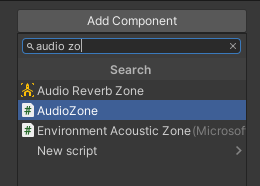
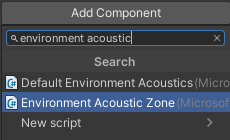
edits-071224-1738

diff --git a/mesh/develop/enhance-your-environment/spatial-audio-customization/audio-zone-properties.md b/mesh/develop/enhance-your-environment/spatial-audio-customization/audio-zone-properties.md
@@ -4,7 +4,7 @@ description: Learn about the properties that help you customize a Mesh Audio Zon
 ms.service: mesh
 author: vtieto
 ms.author: vinnietieto
-ms.date: 7/10/2024
+ms.date: 7/12/2024
 ms.topic: conceptual
 keywords: Microsoft Mesh, Mesh, audio, sound, audio zones, spatial audio, spatialization, voices, 3D audio, surround sound, acoustics
 ---
@@ -15,32 +15,48 @@ When you [create an Audio Zone in your environment](./create-zones-and-environme
 
 ![______](../../../media/enhance-your-environment/audio-zones/057-audio-zone-properties.png)
 
-**Trigger Collider**: This property contains the GameObject that has an attached Trigger Collider that defines the boundary of the Audio Zone. In most cases, this will be the GameObject the Audio Zone component is attached to. You can set this by dragging the GameObject from the **Hierarchy** and dropping it onto the **Trigger Collider** property, or clicking the round button in the property and then selected a GameObject in the **Select Collider** window.
+### Trigger Collider 
 
-**State**: Leave this set to **Uninitialized**.
+This property contains the GameObject that has an attached Trigger Collider that defines the boundary of the Audio Zone. In most cases, this will be the GameObject the Audio Zone component is attached to. You can set this by dragging the GameObject from the **Hierarchy** and dropping it onto the **Trigger Collider** property, or clicking the round button in the property and then selected a GameObject in the **Select Collider** window.
 
-**Zone type**: Leave this set to **Normal**.
+### State
 
-**Priority**: You can assign a priority value to the Audio Zone which can be useful if there are several Audio Zones in the scene. For more details, hover the cursory over this property and read the informational popup.
+Leave this set to **Uninitialized**.
+
+### Zone type 
+
+Leave this set to **Normal**.
+
+### Priority 
+
+You can assign a priority value to the Audio Zone which can be useful if there are several Audio Zones in the scene. For more details, hover the cursory over this property and read the informational popup.
 
 ![______](../../../media/enhance-your-environment/audio-zones/058-priority.png)
 
-**Applicability**:
+### Applicability
 
 - **When both inside**: the Zone's rules apply only if the attendee *and* the source of the audio are both inside the Audio Zone.
 - **When Audio Source inside**: the Zone's rules apply if the source of the audio is inside the Audio Zone. (this is how a stage works, for example. When the presenter is on the stage, the stage's Audio Zone settings go into effect.) 
 
-**Voices**: Select the Voice Settings Collection that contains the Voice Setting you want for this Audio Zone. To do so, in the **Project** window, navigate to the Voice Setting you want, and then drag it to the **Voices** field in the **AudioZone** component.
+### Voices
+
+Select the Voice Settings Collection that contains the Voice Setting you want for this Audio Zone. To do so, in the **Project** window, navigate to the Voice Setting you want, and then drag it to the **Voices** field in the **AudioZone** component. 
 
 ![______](../../../media/enhance-your-environment/audio-zones/066-voice-setting.png)
 
-**Default Voice Selection**: the drop-down for this property contains a list of various *uses* you may be interested in. If, for example, you want the Audio Zone to use the settings for the *Natural* use, select *Natural* here and the Audio Zone will look for and use a Voice within the Collection you chose that has *Natural* set for its use. If no Voices with that use can be found in the Collection and there are nested Audio Zones, the Audio Zone will look in the Collections for other Audio Zones (going from highest Priority to lowest Priority) for a Voice with that use. If no Audio Zones have such a Voice, the Audio Zone looks to the Environment for such a Voice. If it still can't be found, the default settings for all environments are used.
+**Note**: This is optional. You can use the Voice Setting Collection assigned to the environment or to other Audio Zones or Acoustic Zones that overlap with this Audio Zone. In either case, leave this property set to "None*.
 
-The standard default voice is **Normal**. However, if you want everyone inside the Zone to be heard easily, then **Low Attenuation** might be a better option.
+### Default Voice Selection
+
+The drop-down for this property contains a list of various *uses* you may be interested in. If, for example, you want the Audio Zone to use the settings for the *Natural* use, select *Natural* here and the Audio Zone will look for and use a Voice within the Collection you chose that has *Natural* set for its use. If no Voices with that use can be found in the Collection and there are nested Audio Zones, the Audio Zone will look in the Collections for other Audio Zones (going from highest Priority to lowest Priority) for a Voice with that use. If no Audio Zones have such a Voice, the Audio Zone looks to the Environment for such a Voice. If it still can't be found, the default settings for all environments are used.
+
+The standard default voice is **Natural**. However, if you want everyone inside the Zone to be heard easily, then **Low Attenuation** might be a better option.
 
 ![______](../../../media/enhance-your-environment/audio-zones/059-low-atten.png)
 
-**Muffle Voices Outside**: Allows attendees inside the Audio Zone to hear voices outside the Zone and applies settings that make those voices sound muffled. The "Muffled" Voice Setting uses three filters.
+### Muffle Voices Outside 
+
+Allows attendees inside the Audio Zone to hear voices outside the Zone and applies settings that make those voices sound muffled. The "Muffled" Voice Setting uses three filters.
 
 ![______](../../../media/enhance-your-environment/audio-zones/060-muffled.png)
 
@@ -48,7 +64,9 @@ Much of the "muffled" effect from this voice is due to the strong influence of t
 
  ![______](../../../media/enhance-your-environment/audio-zones/061-muffled-low-pass-filter.png)
 
-**Can Audio Exit** and **Can Audio Enter**: these properties are useful for controlling privacy. Let's say this current Audio Zone is for Room #1, and Room #2 next To it has an Audio Zone with its "Muffle Voices Outside" property selected. 
+### Can Audio Exit** and **Can Audio Enter 
+
+These properties are useful for controlling privacy. Let's say this current Audio Zone is for Room #1, and Room #2 next To it has an Audio Zone with its "Muffle Voices Outside" property selected. 
 
 **To allow sounds from Room #1 to be heard in Room #2 (or any area outside the room)**:
 Select **Can Audio Exit**. 
@@ -62,13 +80,21 @@ Select **Can Audio enter**.
 **To prevent sounds from outside Room #1 from being heard inside the room**:
 Make sure **Can Audio Enter** is unselected.
 
-**Glow Sound at Border**: This works best when you have some sort of visual representation for the border of the Audio Zone. When this property is selected, a sound triggers when an attendee gets close to the border. For example, you could create an Audio Zone that has an electric fence as its border, and then when an attendee approaches the fence, they hear a crackling electrical sound.
+### Glow Sound at Border 
 
-**Attenuate Voices at Border**: As an attendee approaches the border of the Audio Zone, overall volume of voices is lowered.
+This works best when you have some sort of visual representation for the border of the Audio Zone. When this property is selected, a sound triggers when an attendee gets close to the border. For example, you could create an Audio Zone that has an electric fence as its border, and then when an attendee approaches the fence, they hear a crackling electrical sound.
 
-**Walla Murmur**: This is another property that's useful when you want a certain level of privacy. Let's say that for this room/Audio Zone, you have **Can Audio Exit** deselected, meaning you don't want attendees outside the room to hear what's being said inside the room. However, in this instance, you *do* want attendees outside the room to detect that attendees are inside the room and talking. With **Walla Murmur** selected, when attendees inside the room talk, attendees outside the room will hear what *sounds* like conversation coming from the room but is actually just a sound effect that mimics talking and doesn't represent the actual conversation.
+### Attenuate Voices at Border 
+
+As an attendee approaches the border of the Audio Zone, overall volume of voices is lowered.
+
+### Walla Murmur 
+
+This is another property that's useful when you want a certain level of privacy. Let's say that for this room/Audio Zone, you have **Can Audio Exit** deselected, meaning you don't want attendees outside the room to hear what's being said inside the room. However, in this instance, you *do* want attendees outside the room to detect that attendees are inside the room and talking. With **Walla Murmur** selected, when attendees inside the room talk, attendees outside the room will hear what *sounds* like conversation coming from the room but is actually just a sound effect that mimics talking and doesn't represent the actual conversation.
 
 **Tip**: **Glow Sound at Border**, **Attenuate Voices at Border**, and **Walla Murmur** are designed to work together. Imagine this scenario: you're in an open space, with attendees talking around you, and you walk towards Room #1 which has an Audio Zone with the three above-mentioned features turned on. As you approach the room, you can hear that attendees inside the room are talking (*Walla Murmur*). The volume levels of the voices around you fade to nothing (*Attenuate Voices at Border*). At the same time, you start to hear a sound that steadily increases in volume as you approach the border of the room (*Glow Sound at Border*). As you walk into the room, the glow sound gets quieter and the volume of the voices inside the room increases. The result is a smooth transition from the voices you were hearing outside the room to the voices inside it.
+
+### Toasts
 
 **Entry toast title:**  
 **Entry toast body:**  

diff --git a/mesh/develop/enhance-your-environment/spatial-audio-customization/create-zones-and-environment-audio.md b/mesh/develop/enhance-your-environment/spatial-audio-customization/create-zones-and-environment-audio.md
@@ -4,7 +4,7 @@ description: Learn how to add custom spatial audio zones or change the default a
 ms.service: mesh
 author: vtieto
 ms.author: vinnietieto
-ms.date: 7/10/2024
+ms.date: 7/12/2024
 ms.topic: conceptual
 keywords: Microsoft Mesh, Mesh, audio, sound, audio zones, spatial audio, spatialization, voices, 3D audio, surround sound, acoustics
 ---
@@ -17,14 +17,23 @@ To create an Audio Zone, you add the *Audio Zone* component to a room or space i
 
 ![______](../../../media/enhance-your-environment/audio-zones/067-audio-zone-component.png)
 
-1. Add an empty GameObject to the scene and select it.
+1. Add an empty GameObject to the scene and then rename it something appropriate. For this example, we'll use the name "Room 1".
+1. Add an empty child GameObject to Room 1 and then rename it "Room 1 Audio Zone".
+
+    **Important**: No two GameObjects with Audio Zones attached can have the same name.
+
 1. In the **Inspector**, click the **Add Component** button and then search for and add the "Audio Zone" component.
 
     ![______](../../../media/enhance-your-environment/audio-zones/032-add-audio-zone-component.png)
 
 1. Click the **Add Component** button again and then add the collider that comes closest to the shape of the Audio Zone you have in mind. For example, for a rectangular room, your best choice is probably the "Box Collider".
-1. If needed, in the **Box Collider** component, click the **Edit Collider** button and then adjust the shape of the Collider.
-1. In the **AudioZone** component, specify the property settings you want.
+1. If needed, in the **Box Collider** component, click the **Edit Collider** button and then adjust the shape of the Collider to conform to the dimensions of the room.
+1. In the **AudioZone** component, click the button in the **Voices** property and then choose a Voice Setting Collection. You can also drag a Voice Setting Collection from the **Project** window and drop it in this field.
+
+    **Note**: Choosing a Voice Setting Collection here is optional. If you want to use the Voice Setting Collection assigned to the environment or to other Audio Zones or Acoustic Zones that overlap with this Audio Zone, you can leave this setting at "None".
+    
+1. Click the [**Default Voice Selection**](./audio-zone-properties.md#default-voice-selection) drop-down and then choose one of the options in the menu.
+1. The **Trigger Collider** property contains the GameObject that has an attached Trigger Collider that defines the boundary of the Audio Zone. In most cases, this will be the GameObject the Audio Zone component is attached to.
 
 [Learn about Audio Zone properties](./audio-zone-properties.md)
 
@@ -32,25 +41,40 @@ To create an Audio Zone, you add the *Audio Zone* component to a room or space i
 
 ### Create an Acoustic Zone
 
-An Acoustic Zone comes in the form of a prefab; you can think of it as a simplied Audio Zone. You get the trigger collider and default Voice Setting and Voice Collection choices, but not the more extensive customization properties found in Audio Zones.
+Like with Audio Zones, you can add a component to a room or space in your environment that you want to have customized spatial audio settings (in this case, the component is called "Environment Acoustic Zone"). However, an Acoustic Zone is simpler than an Audio Zone; with the Environment Acoustic Zone component, you get the trigger collider and Voice Collection options, but no default Voice Setting and none of the additional customization properties.
+
+![______](../../../media/enhance-your-environment/audio-zones/086-env-acoustic-zone.png)
+
+1. Create an environment that will act as a large conference hall.
+1. Add a Cube to the scene and then rename it something appropriate. For this example, we'll rename it "Room 2".
+1. Add an empty child GameObject to Room 2 and then rename it "Room 2 Acoustic Zone".
+1. In the **Inspector**, click the **Add Component** button and then search for and add the "Environment Acoustic Zone" component.
+
+    ![______](../../../media/enhance-your-environment/audio-zones/032-add-audio-zone-component.png)
+
+1. Click the **Add Component** button again and then add the collider that comes closest to the shape of the Acoustic Zone you have in mind. For example, for a rectangular room, your best choice is probably the "Box Collider".
+1. If needed, in the **Box Collider** component, click the **Edit Collider** button and then adjust the shape of the Collider to conform to the dimensions of the room.
+1. In the **Environment Acoustic Zone** component, specify the settings you want. You can choose a default [Voice Collection](./spatial-audio-basic-features.md#voice-settings-collection) that gives the Zone a range of Voice Settings to choose from, depending on changing circumstances.
+
+    **Note**: Choosing a Voice Setting Collection here is optional. If you want to use the Voice Setting Collection assigned to the environment or to other Audio Zones or Acoustic Zones that overlap with this Acoustic Zone, you can leave this setting at "None".
+    
+1. The **Trigger Collider** property contains the GameObject that has an attached Trigger Collider that defines the boundary of the Acoustic Zone. In most cases, this will be the GameObject the Acoustic Zone component is attached to.
+
+### Acoustic Zone prefabs
+
+The Audio Zone package comes with two Acoustic Zone prefabs: *CircularAcousticZone* and *RectangularAcousticZone*. You can simply drag one of these into your scene to create an Acoustic Zone; each one comes with the Environment Acoustic Zone script and a trigger collider already attached. 
 
  ![______](../../../media/enhance-your-environment/audio-zones/030-acoustic-zones.png)
 
-An Acoustic Zone prefab comes with the *Environment Acoustic Zone* script.
-
- ![______](../../../media/enhance-your-environment/audio-zones/031-env-acoustic-zone-script.png)
-
 1. Create an environment that will act as a large conference hall.
-1. Add a Cube to the scene and then rename it "Meeting Room".
-1. Adjust the dimensions of **Meeting Room** to give it a rectangular shape at the scale you want.
-1. Drag the **RectangularAcousticZone** prefab from the **VoiceSettingCollection** folder and then drop it on the **Meeting Room** GameObject in the scene, making it a child to **Meeting Room**.
-
-    ![______](../../../media/enhance-your-environment/audio-zones/063-add-rect-acoustic-zone.png)
-
-1. In the **Inspector**, edit the **Box Collider** for the **RectangularAcousticZone** prefab to have the same size and location as the **Meeting Zone** GameObject.
+1. Add a Cube to the scene and then rename it something appropriate. For this example, we'll rename it "Room 3".
+1. Drag the **CircularAcousticZone** or **RectangularAcousticZone** prefab from the **VoiceSettingCollection** folder and then drop it on the **Room 3** GameObject in the **Hierarchy**, making it a child to **Room 3**.
+1. In the **Inspector**, edit the **Box Collider** for the **RectangularAcousticZone** prefab to have the same size and location as the **Room 3** GameObject.
 1. Follow the instructions in the **Description** for the prefab to choose a Voice Collection in the **Voices** property (we recommend that you drag the Voice Collection from the **Project** window). 
 
     ![______](../../../media/enhance-your-environment/audio-zones/064-prefab-description.png)
+
+    **Note**: Choosing a Voice Setting Collection here is optional. If you want to use the Voice Setting Collection assigned to the environment or to other Audio Zones or Acoustic Zones that overlap with this Acoustic Zone, you can leave this setting at "None".
 
 1. If desired, rename the prefab so its name is more descriptive.
 

diff --git a/mesh/develop/enhance-your-environment/spatial-audio-customization/audio-customization-overview.md b/mesh/develop/enhance-your-environment/spatial-audio-customization/audio-customization-overview.md
@@ -4,7 +4,7 @@ description: Learn about the basics of providing custom spatial audio zones in a
 ms.service: mesh
 author: vtieto
 ms.author: vinnietieto
-ms.date: 7/10/2024
+ms.date: 7/12/2024
 ms.topic: conceptual
 keywords: Microsoft Mesh, Mesh, audio, sound, audio zones, spatial audio, spatialization, voices, 3D audio, surround sound
 ---
@@ -13,7 +13,7 @@ keywords: Microsoft Mesh, Mesh, audio, sound, audio zones, spatial audio, spatia
 
 People meet in Mesh to talk to one another; the voice experience touches every single Mesh Attendee in an event. Mesh achieves an immersive 360-degree "surround sound" experience through the use of *spatial audio*. This applies not only to voices but to any sounds in the event.
 
-In the past, you had limited control over how spatialization works; there was one default audio setting for the whole environment and it wasn't customizable for different event sizes and scenarios. This can be a problem if, for example, your event takes place in a large room and you want the volume of the voices between attendees to fade out more gradually as the attendees get further apart. Another example is an event where there's a large table and attendees at the extreme ends of the table are far enough apart that they can't hear each other. In real life, if you're far away, you can speak louder, but in a Mesh event all voice volumes are *normalized* so this doesn't work. In some cases, there are workarounds (for example, make everyone in the event an *Organizer* so they can push the *megaphone* button to make themselves heard by everyone) but these limitations and workarounds can detract from immersion and presence.
+In the past, you had limited control over how spatialization works; there was one default audio setting for the whole environment and it wasn't customizable for different event sizes and scenarios. This can be a problem for various scenarios. For example, you might have an event in a large room where you want attendees to be able to form small groups and have individual conversations, but you also want to support larger discussions where everyone could hear each other. A single fade-out (or "[attenuation](#attenuation)) couldn't accommodate both. Another example is an event where there's a large table and attendees at the extreme ends of the table are far enough apart that they can't hear each other. In real life, if you're far away, you can speak louder, but in a Mesh event all voice volumes are *normalized* so this doesn't work. In some cases, there are workarounds (for example, make everyone in the event an *Organizer* so they can push the *megaphone* button to make themselves heard by everyone) but these limitations and workarounds can detract from immersion and presence.
 
 With our latest Mesh toolkit update, you have much more control over how sound behaves in your environment; you can now [customize the sound settings for the whole environment](./create-zones-and-environment-audio.md#choose-custom-environment-acoustics). You can also create [*Audio Zones*](./create-zones-and-environment-audio.md#create-an-audio-zone) or [*Acoustic Zones*](./create-zones-and-environment-audio.md#create-an-acoustic-zone). These are individual areas in the environment, such as a meeting room or outdoor patio area, with customized audio settings that override the default Mesh app audio settings for the whole environment. For example, you could have an environment that has five different rooms, with each room serving a different purpose and each one having its own unique Audio Zone.
 
@@ -57,7 +57,9 @@ Since *Audio Zones* give you the most extensive control over sound, our document
 
 In order to fully understand how you can control sound with Audio Zones, it's useful to be familiar with a few audio terms that we use for Mesh spatial audio.
 
-**attenuation**: a decrease in the intensity of certain elements of a sound. For our purposes, that means a lowering of volume, a lessening of reverb, or a lessening of high frequencies (["low pass"](https://en.wikipedia.org/wiki/Low-pass_filter)). The names of the prefabs indicate which elements of the sound they're affecting.
+### attenuation
+
+A decrease in the intensity of certain elements of a sound. For our purposes, that means a lowering of volume, a lessening of reverb, or a lessening of high frequencies (["low pass"](https://en.wikipedia.org/wiki/Low-pass_filter)). The names of the prefabs indicate which elements of the sound they're affecting.
 
 ![______](../../../media/enhance-your-environment/audio-zones/070-attenuation-filters.png)
 
@@ -65,13 +67,21 @@ For example, if you create an Audio Zone and you want the sounds outside of the 
 
 You'll see "low" in the names of a number of sound-related prefabs; for example, "LowAttenuationVolumeFilter" or "LowAttenuationReverbFilter". In normal attenuation, the further away you get from a sound source, the more the element of the sound being attenuated decreases until it finally reaches zero. The inclusion of "Low" in the names here indicate that there is some attenuation, but it's a lower amount than usual; the element of the sound being attenuated decreases somewhat but never quite reaches zero.
 
-**frequency**: the property of sound that determines its pitch. We perceive tones coming from a bass guitar as having low frequencies, while tones from a flute are perceived as high frequency.
+### frequency
 
-**low pass filter**: this is a filter that you can apply to a Voice Setting. Lower frequencies in a sound will *pass through* the filter and be audible, while higher frequencies will be *attenuated*.
+The property of sound that determines its pitch. We perceive tones coming from a bass guitar as having low frequencies, while tones from a flute are perceived as high frequency.
 
- **reverb** (short for "reverbation"): the amount of echo in a sound. Sounds in a cave, tunnel or large room typically have noticeable reverb; sounds in a small room have little to no reverb.
+### low pass filter
 
-**Megaphone**: this is a Mesh term. When an attendee in an event has their *Megaphone* turned on, they can be heard by everyone in the event regardless of location.
+This is a filter that you can apply to a Voice Setting. Lower frequencies in a sound will *pass through* the filter and be audible, while higher frequencies will be *attenuated*.
+
+### reverb 
+
+(short for "reverbation"): The amount of echo in a sound. Sounds in a cave, tunnel or large room typically have noticeable reverb; sounds in a small room have little to no reverb.
+
+### Megaphone
+
+This is a Mesh term. When an attendee in an event has their *Megaphone* turned on, they can be heard by everyone in the event regardless of location.
 
 ## Audio Zone Package
 

diff --git a/mesh/develop/enhance-your-environment/spatial-audio-customization/spatial-audio-basic-features.md b/mesh/develop/enhance-your-environment/spatial-audio-customization/spatial-audio-basic-features.md
@@ -4,7 +4,7 @@ description: Learn about three basic features that are essential to creating spa
 ms.service: mesh
 author: vtieto
 ms.author: vinnietieto
-ms.date: 7/10/2024
+ms.date: 7/12/2024
 ms.topic: conceptual
 keywords: Microsoft Mesh, Mesh, audio, sound, audio zones, spatial audio, spatialization, voices, 3D audio, surround sound
 ---
